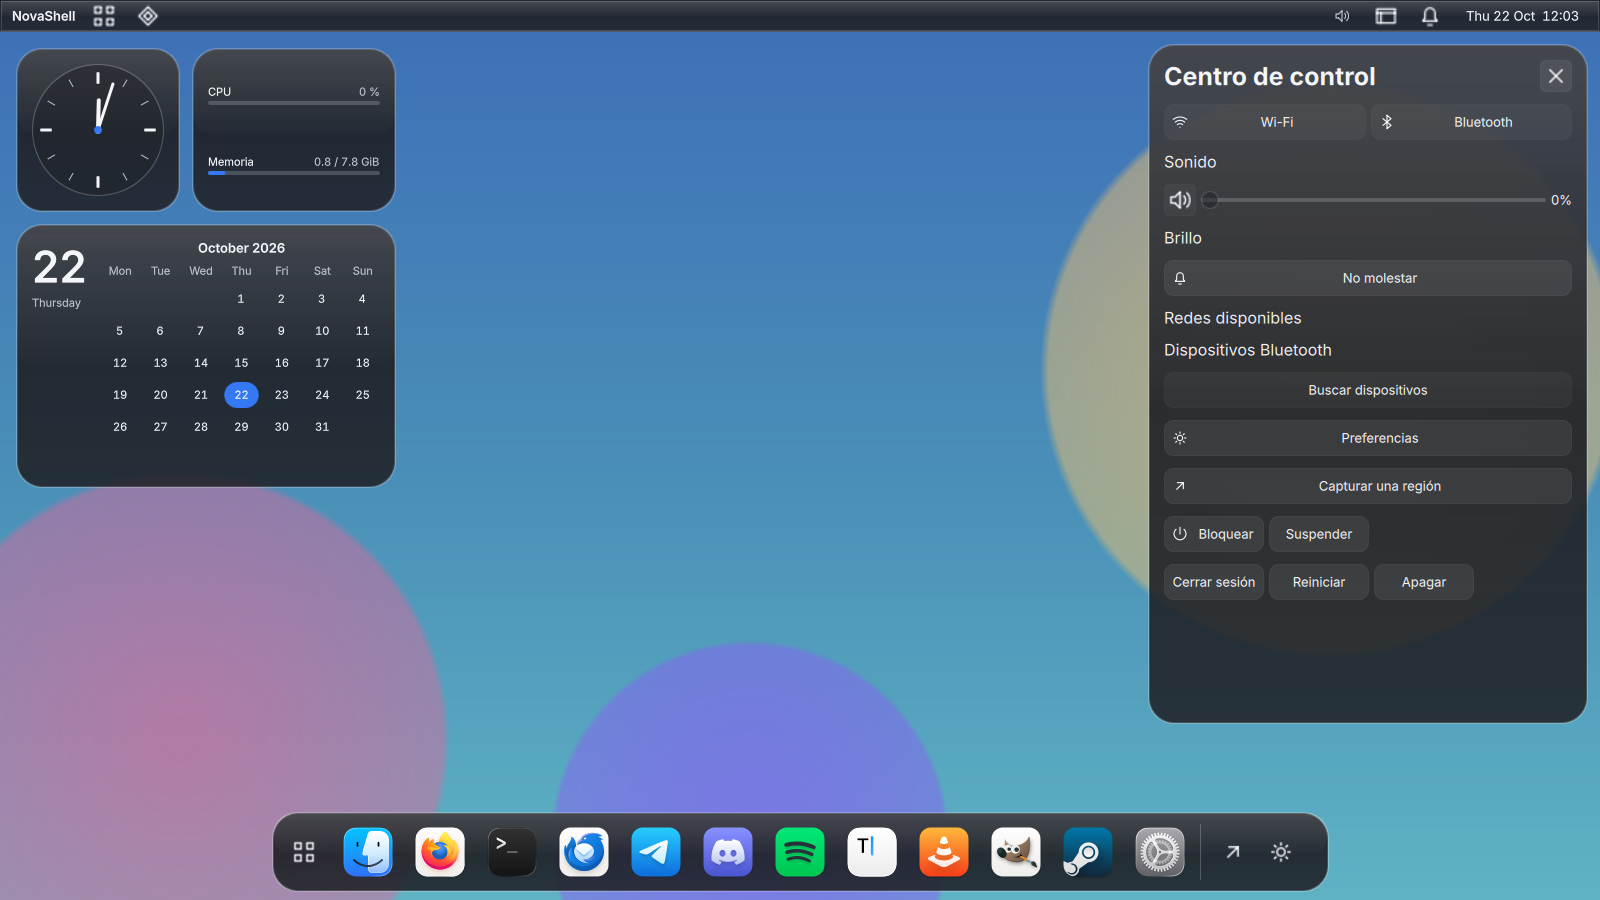
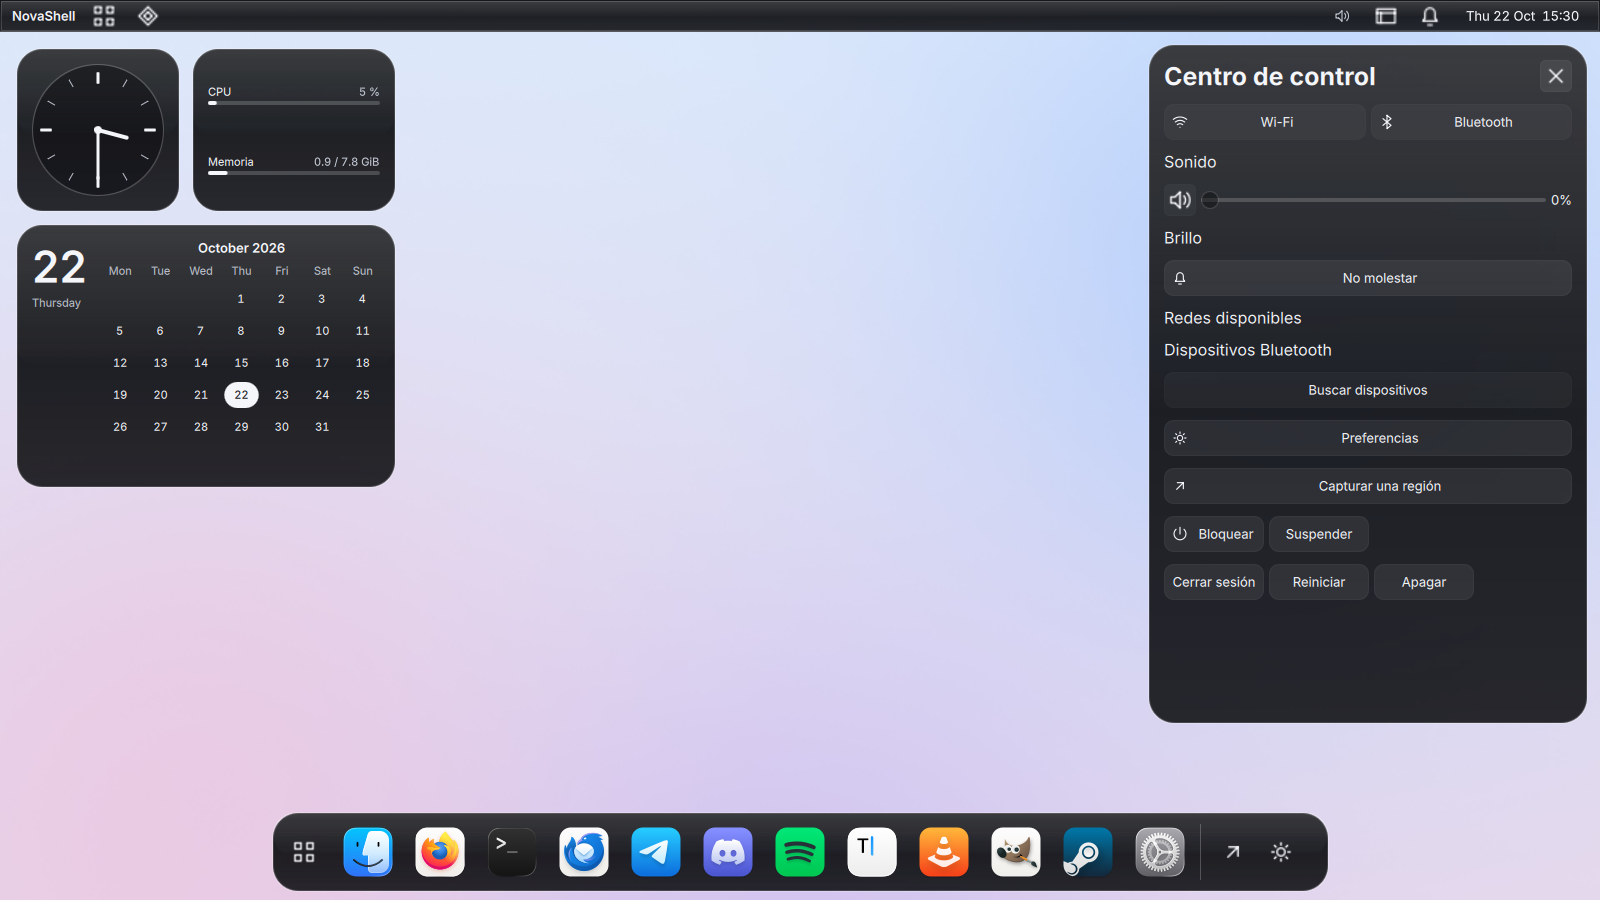
docs: Liquid Glass accent, login design and refreshed screenshots

diff --git a/docs/SESION.md b/docs/SESION.md
@@ -54,7 +54,22 @@ shell (`org.kde.plasma.desktop`, archivo `lockscreenmainscript`), no desde el
 tema global. Sustituir ese paquete rompería plasmashell, y la interfaz de
 bloqueo es una frontera de seguridad: NovaShell **no** la reemplaza.
 
-Lo oficial y reversible es su fondo: el perfil fija
+Lo que sí se puede hacer, de forma oficial, para que el bloqueo combine con
+NovaShell:
+
+1. **Fondo** (lo aplica el perfil). La pantalla de bloqueo de Plasma ya lo
+   desenfoca al mostrar la contraseña.
+2. **Colores**: la interfaz de bloqueo usa el grupo *Complementary* del
+   esquema de color de KDE. Con las paletas NovaGlass:
+
+   ```sh
+   plasma-apply-colorscheme NovaGlassDark        # o NovaGlassLight
+   ```
+
+   Se deshace eligiendo otro esquema en Preferencias del sistema → Colores.
+   Afecta a todas las aplicaciones KDE, por eso NovaShell no lo aplica solo.
+
+El perfil fija
 `[Greeter] WallpaperPlugin=org.kde.image` y
 `[Greeter][Wallpaper][org.kde.image][General] Image` al paquete NovaShell.
 
@@ -83,12 +98,25 @@ Plasma Login Manager (Plasma 6.6+, bifurcación de SDDM) compila su pantalla
 dentro del programa (`qrc:/qt/qml/org/kde/plasma/login/Main.qml`) y solo deja
 cambiar el fondo. `novactl doctor` indica qué gestor usa tu sistema.
 
-**Diseño.** Fondo NovaShell desenfocado una vez (escena estática, sin coste
-mientras nadie escribe), fecha en el formato largo del idioma y hora grande,
-avatar circular (o inicial sobre el acento), campo de contraseña en cápsula
-con botón de flecha, aviso de Bloq Mayús, sacudida breve si la contraseña es
-incorrecta (desactivable) y, abajo, sesión, distribución de teclado y
-suspender/reiniciar/apagar solo si SDDM informa de que el sistema lo permite.
+![Pantalla de inicio de sesión NovaShell en claro](images/inicio-sesion-claro.png)
+
+**Diseño (Liquid Glass).** Fondo NovaShell desenfocado una vez (escena
+estática, sin coste mientras nadie escribe) bajo un velo que aclara en modo
+claro y oscurece en modo oscuro, para que reloj y formulario se lean sobre
+cualquier imagen. Fecha en el formato largo del idioma y hora grande. Los
+controles son **vidrio transparente** (`LoginGlass`): en modo claro, vidrio
+claro que deja ver el fondo; en modo oscuro, vidrio negro translúcido. El
+volumen sale del canto de luz y del brillo superior, no de colores: no hay
+acento azul. El campo de contraseña es una cápsula de vidrio; el botón de
+flecha, vidrio más denso con la flecha en la tinta del texto, y mientras SDDM
+verifica muestra un arco que gira en el hilo de render. Los avatares son
+discos de vidrio con la foto recortada en círculo o la inicial. El foco es un
+anillo en la tinta del texto (negro translúcido en claro, blanco en oscuro).
+Aviso de Bloq Mayús, sacudida breve si la contraseña es incorrecta, entrada
+suave al aparecer y fundido al entrar en la sesión (todo desactivable con
+`reduceMotion`). Abajo, sesión, distribución de teclado y
+suspender/reiniciar/apagar, solo si SDDM informa de que el sistema lo permite;
+cada botón muestra una cápsula de vidrio al pasar el puntero o con el foco.
 Con varios usuarios aparece una fila de avatares (Tab la enfoca y las
 flechas eligen; Esc borra la contraseña); sin lista de usuarios, un campo de
 nombre. Las pantallas secundarias muestran fondo y reloj. Con el
@@ -97,8 +125,18 @@ circular en lugar de quedarse sin fondo. Comparte `Theme`, el catálogo de
 símbolos y el fondo con el shell; no ejecuta nada: entrar y la energía son
 llamadas al proxy de SDDM.
 
-`theme.conf`: `appearance` (`auto`, `light`, `dark`), `background` (ruta
-absoluta a una imagen; vacío usa el fondo NovaShell) y `reduceMotion`.
+`theme.conf`:
+
+| Clave | Valores | Por defecto |
+| :--- | :--- | :--- |
+| `appearance` | `auto`, `light`, `dark` | `auto` |
+| `accent` | vacío (Liquid Glass) o `#rrggbb` para un acento de color | vacío |
+| `background` | ruta absoluta a una imagen; vacío usa el fondo NovaShell | vacío |
+| `reduceMotion` | `true`, `false` | `false` |
+
+Coste: la animación de entrada dura `Theme.motion.slow` y se detiene; en
+reposo solo el reloj se despierta una vez por minuto. El indicador giratorio
+existe únicamente mientras se verifica.
 
 **Instalación.** `novactl install` prepara el tema en
 `~/.local/share/novashell/sddm/novashell`. Desde ahí:

diff --git a/docs/APARIENCIA.md b/docs/APARIENCIA.md
@@ -46,6 +46,24 @@ Las variables deben llegar al proceso Quickshell; exportarlas al ejecutar
 Para servicios utiliza un drop-in de usuario con `Environment=`.
 Los cambios de la galería no se guardan todavía en disco.
 
+## Acento Liquid Glass
+
+NovaShell no usa un acento de color por defecto. `Theme.glassAccent` (activo)
+deriva todo del esquema:
+
+| Token | Claro | Oscuro |
+| :--- | :--- | :--- |
+| Superficie de vidrio | blanca translúcida | negra translúcida (`#0e0f12`) |
+| Indicadores (`color.accent`) | tinta oscura `#17191e` | tinta clara `#f5f6fa` |
+| Acción principal (`accentFill`) | vidrio claro denso | vidrio negro denso |
+| Foco | negro al 60 % | blanco al 75 % |
+| Selección | negro al 8 % | blanco al 14 % |
+
+Con `glassAccent: false` y `accent` (`#rrggbb`) vuelve un acento de color: el
+relleno principal se oscurece lo justo para que el texto blanco cumpla 4,5:1
+(`AppearancePolicy.readableFill`) y el foco se deriva del acento. El material
+predeterminado es Cristal (`liquid`).
+
 ## Transparencia y blur
 
 `GlassSurface` dibuja un relleno y acabado, sin capturar lo que hay detrás.
@@ -77,7 +95,7 @@ mejor; NovaShell prioriza la legibilidad por la misma razón.
 | :--- | :--- |
 | Vidrio solo en la capa de navegación | `GlassSurface` en barra, dock, paneles, widgets y avisos flotantes. |
 | No apilar vidrio sobre vidrio | Controles sobre vidrio usan `ControlFill` (relleno de estado) y el contenido `ContentCard`. |
-| Tinte solo en elementos primarios | El acento marca selección, progreso, interruptores activos y el día de hoy. |
+| Tinte solo en elementos primarios | Acento Liquid Glass sin color: selección, progreso, interruptores activos y el día de hoy usan la tinta del texto; la acción principal es vidrio denso (claro en claro, negro en oscuro). |
 | Movimiento breve, con propósito e interrumpible | Paneles: abrir 200 ms (OutCubic), cerrar 120 ms (InCubic); las `Behavior` se interrumpen solas. |
 | Evitar animar interacciones frecuentes | Ampliación del dock desactivada por defecto (como en macOS); hover solo cambia el relleno. |
 | Movimiento opcional | «Reducir movimiento» lleva las duraciones a 0 y quita barridos y ampliación. |

diff --git a/docs/INSTALACION.md b/docs/INSTALACION.md
@@ -108,7 +108,14 @@ preferencias de Dolphin y de las animaciones de KWin:
 ```
 
 El splash y el fondo de bloqueo se ven en el siguiente inicio de sesión o
-bloqueo. La interfaz de bloqueo sigue siendo la de Plasma por seguridad
+bloqueo. Para que la pantalla de bloqueo use también los colores y el acento
+de NovaShell, aplica una paleta NovaGlass (afecta a todas las apps KDE; se
+deshace en Preferencias del sistema → Colores):
+
+```sh
+plasma-apply-colorscheme NovaGlassDark      # o NovaGlassLight
+```
+ La interfaz de bloqueo sigue siendo la de Plasma por seguridad
 ([por qué](SESION.md#bloqueo)). El fondo también aparece en Preferencias del
 sistema → Fondo de pantalla.
 
@@ -136,8 +143,9 @@ sudo systemctl disable sddm && sudo systemctl enable plasmalogin   # volver
 ```
 
 Ajustes del tema en `/usr/share/sddm/themes/novashell/theme.conf`:
-`appearance=auto|light|dark`, `background=` (ruta absoluta a una imagen) y
-`reduceMotion=true|false`.
+`appearance` (`auto|light|dark`), `accent` (vacío = Liquid Glass; `#rrggbb`
+para un acento de color), `background` (ruta absoluta a una imagen) y
+`reduceMotion` (`true|false`).
 
 ## 8. Atajos de teclado
 

diff --git a/CHANGELOG.md b/CHANGELOG.md
@@ -6,6 +6,21 @@ versiones según [SemVer](https://semver.org/lang/es/). Mientras la versión sea
 
 ## [Sin publicar]
 
+### Cambiado
+- **Acento Liquid Glass** en todo el sistema: sin azul. En claro, vidrio
+  transparente claro; en oscuro, vidrio negro translúcido (la superficie
+  oscura pasa de gris a negro). Indicadores, día de hoy, interruptores y
+  progreso usan la tinta del texto; la acción principal es vidrio denso. El
+  material predeterminado pasa a Cristal (`liquid`). Un acento de color sigue
+  disponible (`glassAccent: false`), con relleno legible a 4,5:1 para
+  cualquier color y foco derivado.
+- Inicio de sesión de vidrio transparente (`LoginGlass`): campo, botón de
+  entrar, avatares, menú de sesiones y botones del pie; velo claro/oscuro
+  sobre el fondo, arco giratorio mientras se verifica, entrada suave y
+  fundido al entrar. `theme.conf`: `accent` vacío por defecto (Liquid Glass).
+- Marca monocroma (tinta clara u oscura según el esquema) en splash y
+  bienvenida.
+
 ## [0.2.0] — 2026-10-22 · pre-release
 
 Pantallas de sesión con la identidad de NovaShell, bienvenida de primer uso e

diff --git a/README.md b/README.md
@@ -21,7 +21,7 @@
 | **Centro de control** | Wi-Fi, Bluetooth, sonido, brillo, No molestar, capturas y acciones de sesión. |
 | **Ajustes** | Barra lateral: apariencia, escritorio, dock, barra, notificaciones, accesibilidad, privacidad e integración. |
 | **Widgets** | Reloj analógico, uso de CPU/memoria y calendario sobre el fondo. |
-| **Apariencia** | Cristal, Esmerilado y Sólido; claro/oscuro; alto contraste, menos transparencia y menos movimiento. |
+| **Apariencia** | Liquid Glass sin acento de color: vidrio claro en claro y negro translúcido en oscuro. Cristal, Esmerilado y Sólido; alto contraste, menos transparencia y menos movimiento. |
 | **Sesión** | Tema SDDM, splash, fondo claro/oscuro, fondo de bloqueo y bienvenida de primer uso. |
 | **Iconos** | Biblioteca MacTahoe (GPL-3.0, 16 602 nombres) y carpetas propias, sin red. |
 
